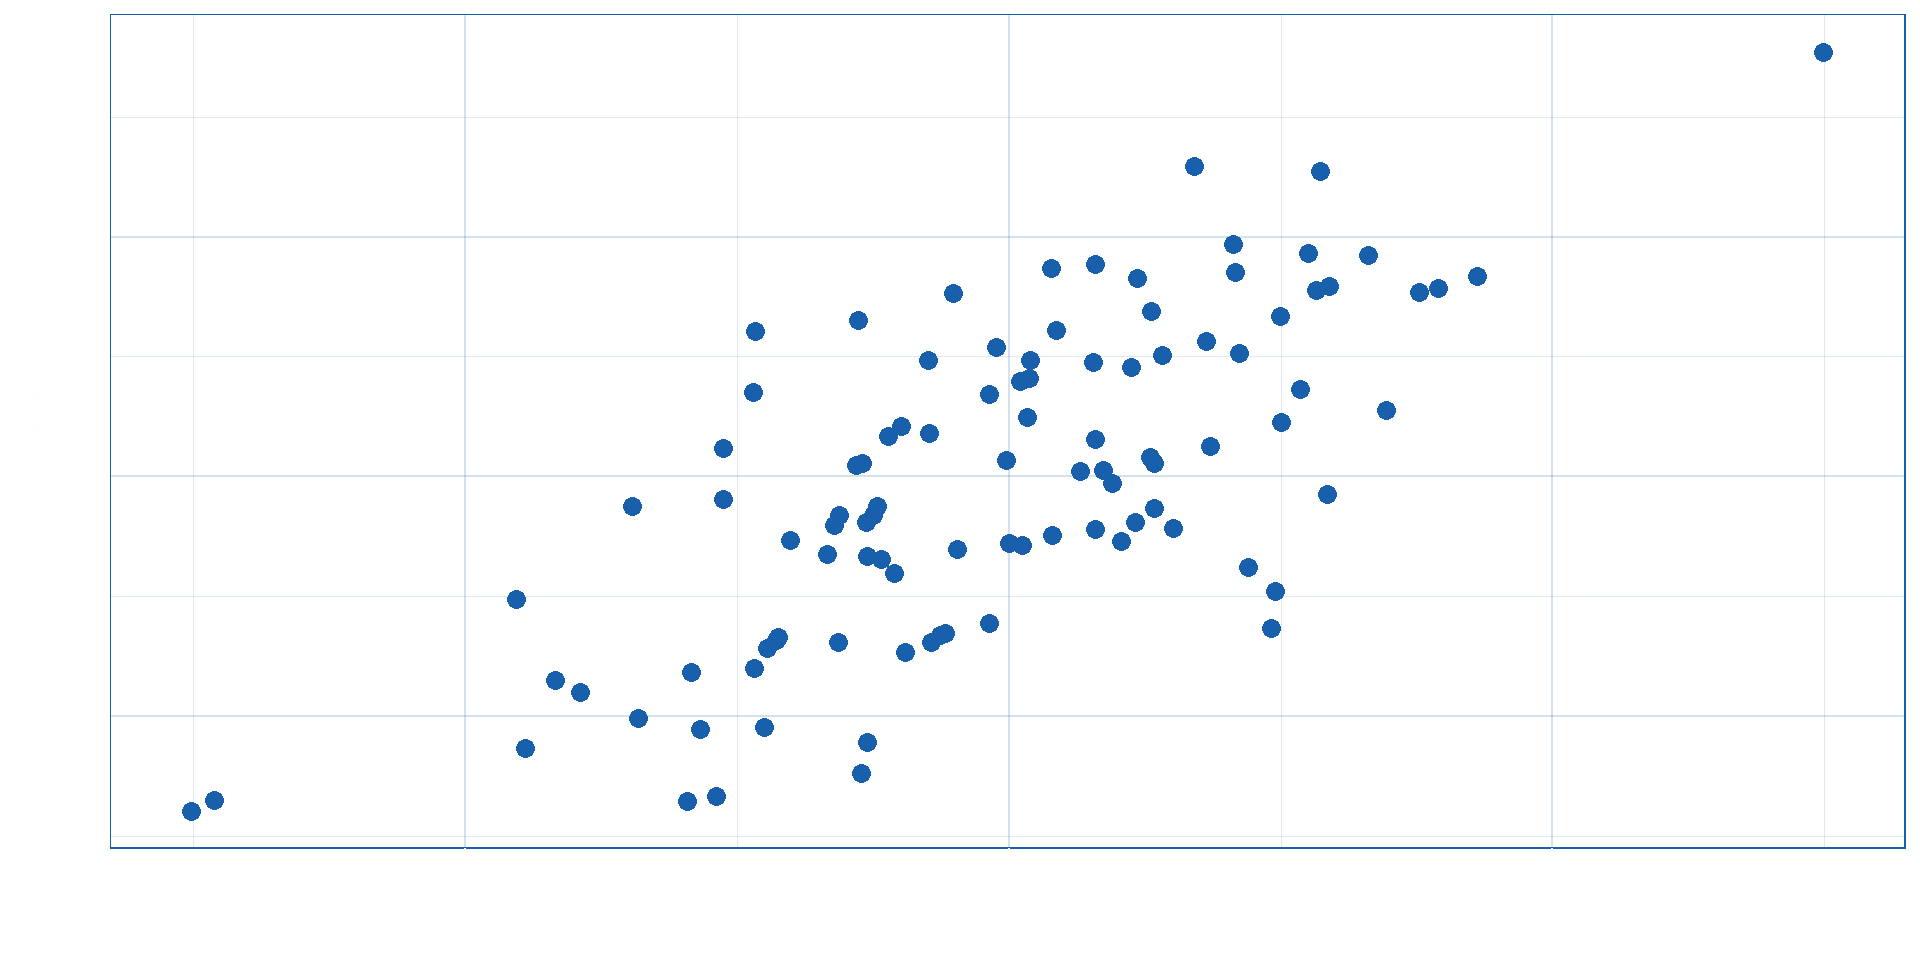
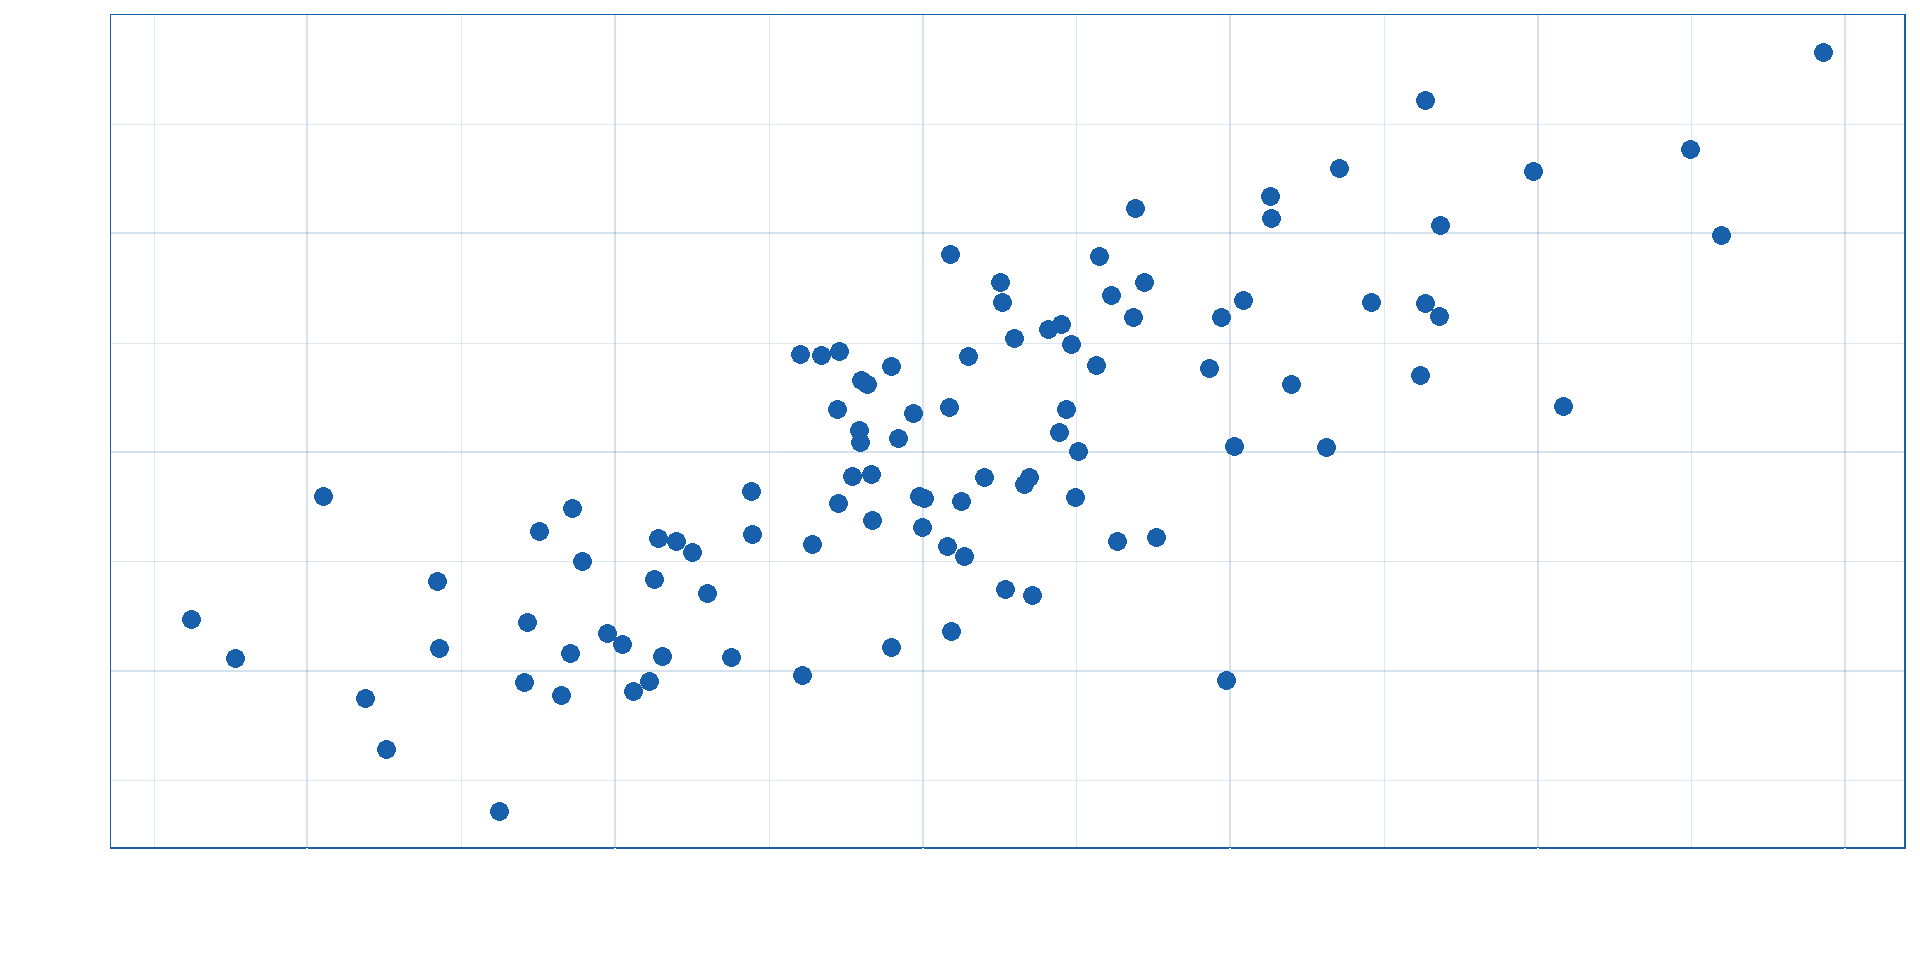
added content

diff --git a/content/week_00/slides/index.md b/content/week_00/slides/index.md
@@ -9,11 +9,21 @@ execute:
 
 ## Welcome
 
+<!-- these fences CANNOT be nested -->
+
+::{.incremental}
+
 -   something
 
 **bold**
 
 [some link](https://www.google.com)
+
+::
+
+## chrom
+
+<img src="http://book.bionumbers.org/wp-content/uploads/2014/07/505-f2-HumanChimpChromosomes-1.png" class="frame rot" data-source="http://book.bionumbers.org/how-many-chromosomes-are-found-in-different-organisms/" height="500" alt="Human chromosome 2 and analogous chimp chromosomes, adapted from Yunis+&amp;+Prakash, Science, 215:1525, 1982" />
 
  <h2 class="hidden" auto-animate="true" auto-animate-easing="ease-in-out">Who am I?</h2>
 <div class="animate-title" data-id="animate-title">Who am I?</div>
@@ -56,30 +66,11 @@ execute:
 ## scatter
 
 ``` r
-library(ggplot2)
-main_col = "#1860ac"
-update_geom_defaults("point", list(colour = main_col, size = 3))
-update_geom_defaults("bar", list(colour = main_col, fill = paste0(main_col, "aa")))
-my_theme <- theme(
-        line = element_line(colour = main_col),
-        text = element_text(colour = main_col),
-        plot.background = element_blank(),
-        panel.background = element_rect(
-            fill = "white",
-            colour = main_col),
-        panel.grid.major = element_line(colour = paste0(main_col, "30")),
-        panel.grid.minor = element_line(colour = paste0(main_col, "25")),
-        axis.ticks = element_line(colour = "white"),
-        axis.text = element_text(colour = "white", size = 12),
-        axis.title = element_text(colour = "white", size = 18),
-        axis.title.x.bottom = element_text(vjust=-0.5)
-    )
 df <- tibble::tibble(x = rnorm(100), y = x + rnorm(100))
 df |>
     ggplot(aes(x, y)) +
     geom_point() +
-    labs(x = "blah", y = "blee") +
-    my_theme
+    labs(x = "blah", y = "blee")
 ```
 
 <img src="index.markdown_strict_files/figure-markdown_strict/unnamed-chunk-3-1.png" width="768" />
@@ -88,7 +79,7 @@ df |>
 
 ``` r
 df |>
-    ggplot(aes(x)) + geom_histogram() + my_theme
+    ggplot(aes(x)) + geom_histogram()
 ```
 
 <img src="index.markdown_strict_files/figure-markdown_strict/unnamed-chunk-4-1.png" width="768" />

diff --git a/content/_index.md b/content/_index.md
@@ -2,6 +2,42 @@
 title: Research Skills for IUDD
 ---
 
-## Welcome!
+The aim of this course is to give you a broad conceptual understanding of how scientific knowledge is developed and to familiarise you with the main methods used in (mainly quantitative) scientific research. The purpose is to equip you with the tools you will need to develop, conduct, and communicate your own research as part of your Masters dissertation.
 
-Here you'll learn about Science<sup>TM</sup>
+<details id="course-plan-container">
+<summary>More specifically, we will look at the following topics:</summary>
+
+<div id="course-plan">
+
+1. The scientific method
+    - What even is science?
+    - How does it differ from other forms of knowledge?
+    - How is it done?
+1. Asking about the world
+    - What is a theory, research question, hypothesis?
+    - What's the role of theory in science?
+    - Can knowledge be objective?
+1. Qualitative and Quantitative approaches to research
+    - How do the two differ in how they view knowledge?
+    - What questions are they interested in?
+    - What are they used for?
+1. Data
+    - Quantitative and qualitative data
+    - Levels of measurement
+    - Data collection
+    - Designing measurement
+1. Analysis AKA Statistics 101
+    - Models of the world
+    - Descriptive statistics (location/spread)
+	- Probability distributions
+	- Correlation?
+	- Statistical tests of hypotheses
+1. Academic writing
+    - Structure of an academic paper
+    - Literature search strategies
+    - Citations
+</div>
+</details>
+
+During the course of this semester, you will also gain hands-on experience with formulating research questions and hypotheses, designing a study, collecting and analysing data, and reporting results.
+
